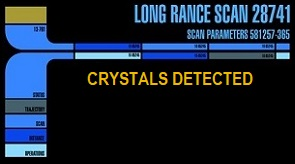
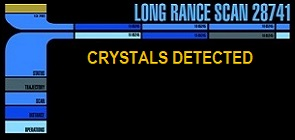
adjusted background image

diff --git a/assets/css/style.css b/assets/css/style.css
@@ -1,14 +1,14 @@
 /*font-family: 'Bungee Hairline', Arial, cursive;
 font-family: 'Jomhuria', Arial, cursive;*/
 body {
-  background-image: url("../images/planet2_sm.png");
+  background-image: url("../images/planet2_sm2.png");
 }
 
 #ship-container {
   height: 110px;
   width: 75px;
   position: relative;
-  top: 142px;
+  top: 100px;
   left: 30px;
 }
 
@@ -37,7 +37,7 @@ body {
 
 .commDiv {
   position: fixed;
-  bottom: 202px;
+  bottom: 158px;
   height: 165px;
   width: 100vw;
 }
@@ -61,13 +61,13 @@ body {
 
 #controls {
   position: fixed;
-  bottom: 36px;
+  bottom: 23px;
   width: 100vw;
   background-color: #4f4f4f;
 }
 
 #scan-container {
-  height: 156px;
+  height: 125px;
   width: 77vw;
   border: 5px solid #4f4f4f;
   display: inline-block;
@@ -87,14 +87,16 @@ body {
 
 #empty {
   font-family: 'Jomhuria', Arial, cursive;
-  font-size: 24px;
-  line-height: 20px;
+  font-size: 22px;
+  line-height: 18px;
   text-align: center;
-  padding-top: 4px;
+  height: 25px;
+  border: 5px solid #4f4f4f;
+  /*padding-top: 4px;*/
 }
 
 .gauge {
-  height: 45px;
+  height: 39px;
   border: 5px solid #4f4f4f;
 }
 
@@ -142,14 +144,14 @@ p {
 
 #bottom-bar {
   width: 100vw;
-  height: 36px;
+  height: 25px;
   background-color: #4f4f4f;
   position: fixed;
   bottom: 0;
 }
 
 #win-loss {
-  height: 30px;
+  height:18px;
   width: 98vw;
   max-width: 400px;
   background-color: #3786ff;
@@ -160,34 +162,32 @@ p {
 }
 
 #win {
-  height: 20px;
+  height: 18px;
   position: relative;
-  top: 5px;
   left: 20px;
   display: inline-block;
 }
 
 #win-count {
-  height: 20px;
+  height: 18px;
   display: inline-block;
 }
 
 #loss {
-  height: 20px;
+  height: 18px;
   position: absolute;
-  top: 5px;
   left: 175px;
   display: inline-block;
 }
 
 #loss-count {
-  height: 20px;
+  height: 18px;
   display: inline-block;
 }
 
 .text {
   font-family: 'Bungee Hairline', Arial, cursive;
-  font-size: 20px;
+  font-size: 18px;
   color: white;
   font-weight: bold;
 }

diff --git a/index.html b/index.html
@@ -46,7 +46,7 @@
   </div>
 
   <!-- <div class="fuel-container"> -->
-    <div id="empty" class="gauge">
+    <div id="empty">
       FUEL INDICATORS
     </div>
     <div class="gauge">
